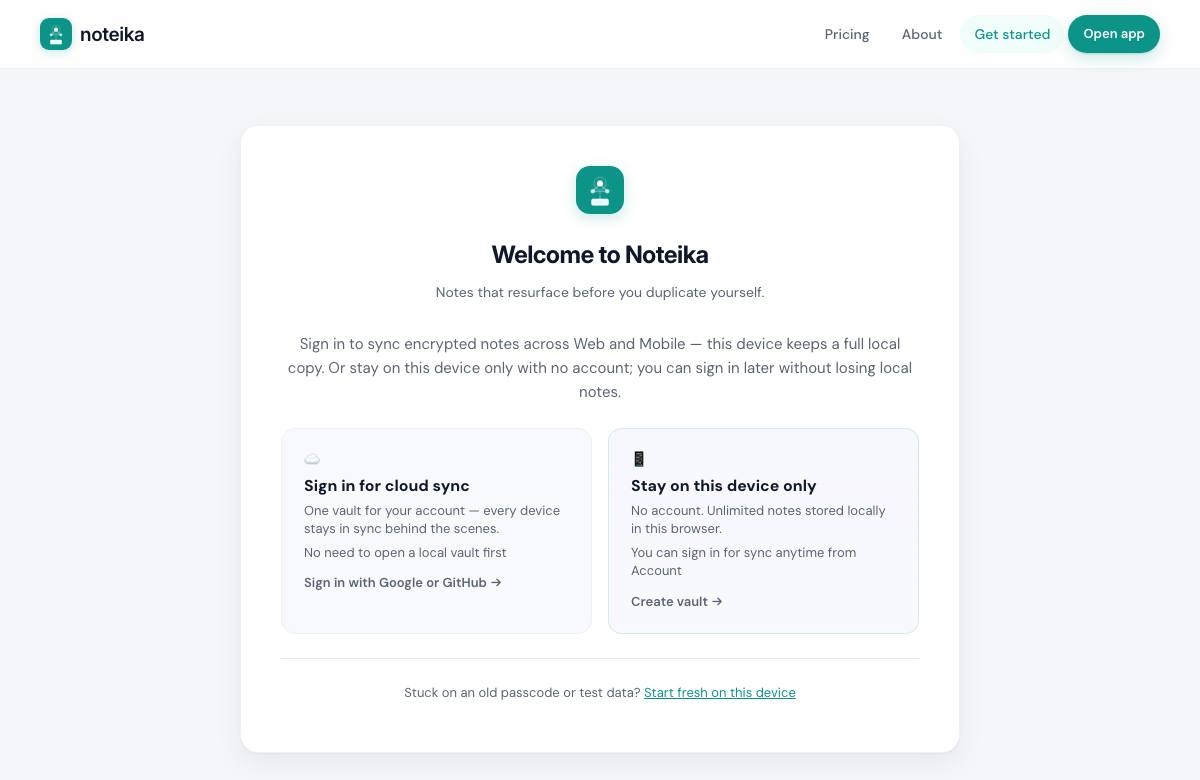
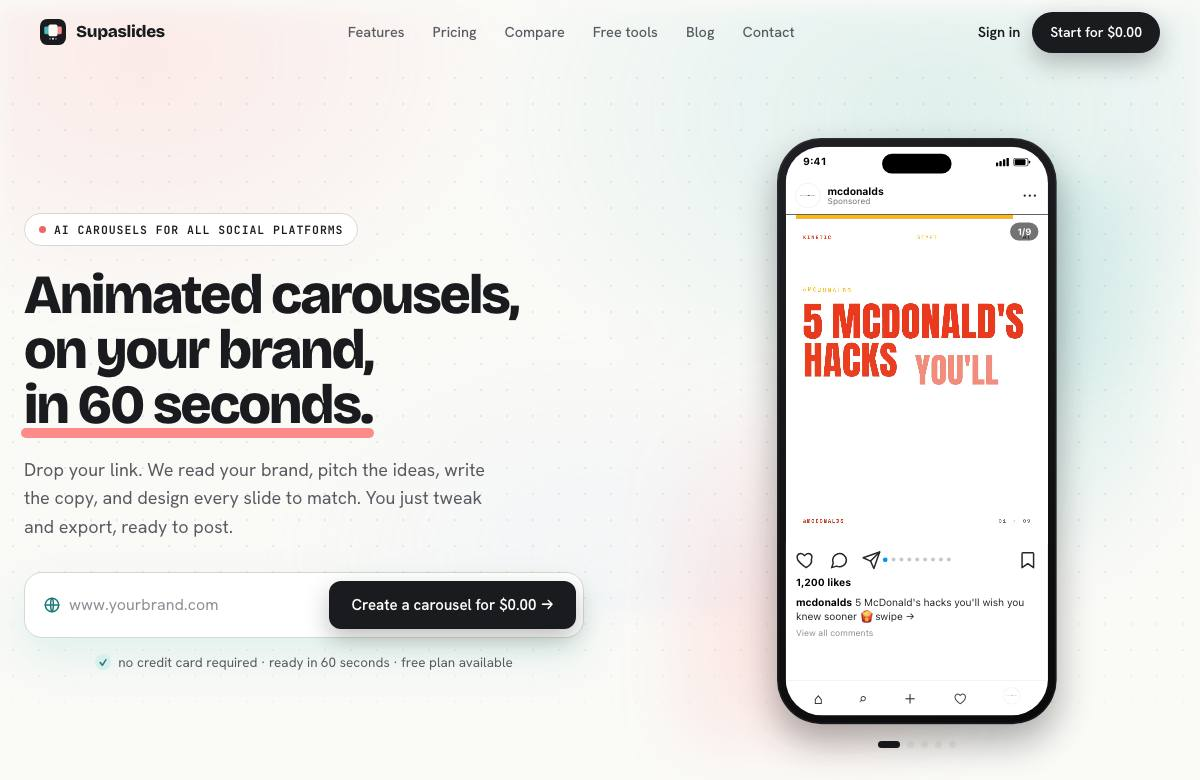
Patterns page: re-source colored-glow and headline-badge examples
- Headline-badge example now comes from supaslides.app (pill above the H1).
- Colored-glow example sourced from www.vioevo.com.
- Drop the one-off custom-image handling; every example is a real capture.

diff --git a/web/patterns.html b/web/patterns.html
@@ -66,10 +66,10 @@
 <div class="topbar"><div class="inner"><b><a href="/">Design Slop Cop</a></b><nav><a href="/">Scan</a><a href="/show">Gallery</a><a class="sel" href="/patterns">Patterns</a></nav></div></div>
 
 <div class="wrap">
-  <h1>Pattern Library</h1>
-  <p class="lede">These are the deterministic patterns Design Slop Cop looks for.</p>
-  <p class="lede muted">Each is checked in a real browser against the page's DOM and computed styles.</p>
-  <p class="submit-top"><a id="submit-top" href="#" target="_blank" rel="noopener">Submit a new pattern →</a></p>
+  <h1>The 14 patterns</h1>
+  <p class="lede">These are the deterministic tells Design Slop Cop looks for — the visual habits of the modern AI-era landing page.</p>
+  <p class="lede muted">Each is checked in a real browser against the page's DOM and computed styles. Great human-designed sites trip these too: the aesthetic is now near-universal, which is rather the point.</p>
+  <p class="submit-top">Spotted a tell we miss? <a id="submit-top" href="#" target="_blank" rel="noopener">Submit a new pattern →</a></p>
 
   <div id="list"></div>
 
@@ -80,7 +80,7 @@
 
 <div class="zoom" id="zoom"><img id="zoomImg" alt=""></div>
 <script>
-  const DATA = {"patterns":[{"id":"slop_fonts","name":"Templated font","desc":"Trendy display fonts like Space Grotesk used as the page default.","pct":11,"exampleUrl":"https://puzzlelair.com/","exampleHost":"puzzlelair.com","img":"/pattern-examples/slop_fonts.jpg"},{"id":"hero_font_mix","name":"Hero font mix","desc":"One headline word set apart with a different font, italic, or color.","pct":22,"exampleUrl":"https://clevercrow.io","exampleHost":"clevercrow.io","img":"/pattern-examples/hero_font_mix.jpg"},{"id":"purple_accent","name":"Vibe purple","desc":"Indigo or violet accent on buttons and links.","pct":8,"exampleUrl":"https://golemui.com","exampleHost":"golemui.com","img":"/pattern-examples/purple_accent.jpg"},{"id":"gradients","name":"Gradients","desc":"Gradient backgrounds, or gradient-filled headline text.","pct":31,"exampleUrl":"https://www.absurdlyoptimized.com/recipes/pancakes/","exampleHost":"absurdlyoptimized.com/recipes/pancakes","img":"/pattern-examples/gradients.jpg"},{"id":"accent_stripe","name":"Accent stripe","desc":"A colored stripe along the top or left edge of cards.","pct":7,"exampleUrl":"https://llm-wiki.net/","exampleHost":"llm-wiki.net","img":"/pattern-examples/accent_stripe.jpg"},{"id":"glassmorphism","name":"Glass","desc":"Frosted, blurred translucent panels.","pct":11,"exampleUrl":"https://www.calendarpipe.com","exampleHost":"calendarpipe.com","img":"/pattern-examples/glassmorphism.jpg"},{"id":"colored_glows","name":"Colored glow","desc":"A colored glow behind buttons or cards.","pct":6,"exampleUrl":"https://vioevo.com","exampleHost":"vioevo.com","img":"/pattern-examples/colored_glows.jpg"},{"id":"sidebar_emoji","name":"Emoji nav","desc":"Navigation links prefixed with emoji.","pct":3,"exampleUrl":"https://brevio.pro","exampleHost":"brevio.pro","img":"/pattern-examples/sidebar_emoji.jpg"},{"id":"center_aligned_hero","name":"Centered + Inter","desc":"A centered hero set in Inter or a default sans-serif.","pct":20,"exampleUrl":"https://startupwiki.tech/","exampleHost":"startupwiki.tech","img":"/pattern-examples/center_aligned_hero.jpg"},{"id":"perma_dark_mode","name":"Perma dark","desc":"Dark background with muted grey body text.","pct":30,"exampleUrl":"https://selforg-npa.github.io/","exampleHost":"selforg-npa.github.io","img":"/pattern-examples/perma_dark_mode.jpg"},{"id":"numbered_steps","name":"1·2·3 steps","desc":"The numbered how-it-works step row.","pct":21,"exampleUrl":"https://margaine.com/hunch","exampleHost":"margaine.com/hunch","img":"/pattern-examples/numbered_steps.jpg"},{"id":"stat_banner_row","name":"Stat banner","desc":"A row of big stats like 10K+ users or 99.9% uptime.","pct":6,"exampleUrl":"https://golemui.com","exampleHost":"golemui.com","img":"/pattern-examples/stat_banner_row.jpg"},{"id":"hero_eyebrow_pill","name":"Headline badge","desc":"A small pill label above the headline.","pct":20,"exampleUrl":"https://noteika.com","exampleHost":"noteika.com","img":"/pattern-examples/hero_eyebrow_pill.jpg"},{"id":"faq_accordion","name":"FAQ","desc":"A collapsible FAQ section near the bottom.","pct":20,"exampleUrl":"https://places.is","exampleHost":"places.is","img":"/pattern-examples/faq_accordion.jpg"}],"submitUrl":"https://github.com/AdrianKrebs/design-slop-cop/issues/new?labels=pattern-suggestion&title=New%20pattern%3A%20&body=**Pattern%20name%3A**%0A%0A**The%20tell%20%E2%80%94%20what%20makes%20it%20read%20as%20AI-generated%3A**%0A%0A**Example%20URL(s)%20where%20it%20shows%20up%3A**%0A%0A**How%20to%20detect%20it%20(DOM%20%2F%20computed-style%20signal)%3A**%0A","repo":"https://github.com/AdrianKrebs/design-slop-cop","generatedAt":"2026-07-02T07:32:25.498Z"};
+  const DATA = {"patterns":[{"id":"slop_fonts","name":"Templated font","desc":"Trendy display fonts like Space Grotesk used as the page default.","pct":11,"exampleUrl":"https://puzzlelair.com/","exampleHost":"puzzlelair.com","img":"/pattern-examples/slop_fonts.jpg"},{"id":"hero_font_mix","name":"Hero font mix","desc":"One headline word set apart with a different font, italic, or color.","pct":22,"exampleUrl":"https://clevercrow.io","exampleHost":"clevercrow.io","img":"/pattern-examples/hero_font_mix.jpg"},{"id":"purple_accent","name":"Vibe purple","desc":"Indigo or violet accent on buttons and links.","pct":8,"exampleUrl":"https://golemui.com","exampleHost":"golemui.com","img":"/pattern-examples/purple_accent.jpg"},{"id":"gradients","name":"Gradients","desc":"Gradient backgrounds, or gradient-filled headline text.","pct":31,"exampleUrl":"https://www.absurdlyoptimized.com/recipes/pancakes/","exampleHost":"absurdlyoptimized.com/recipes/pancakes","img":"/pattern-examples/gradients.jpg"},{"id":"accent_stripe","name":"Accent stripe","desc":"A colored stripe along the top or left edge of cards.","pct":7,"exampleUrl":"https://llm-wiki.net/","exampleHost":"llm-wiki.net","img":"/pattern-examples/accent_stripe.jpg"},{"id":"glassmorphism","name":"Glass","desc":"Frosted, blurred translucent panels.","pct":11,"exampleUrl":"https://www.calendarpipe.com","exampleHost":"calendarpipe.com","img":"/pattern-examples/glassmorphism.jpg"},{"id":"colored_glows","name":"Colored glow","desc":"A colored glow behind buttons or cards.","pct":6,"exampleUrl":"https://www.vioevo.com/","exampleHost":"vioevo.com","img":"/pattern-examples/colored_glows.jpg"},{"id":"sidebar_emoji","name":"Emoji nav","desc":"Navigation links prefixed with emoji.","pct":3,"exampleUrl":"https://brevio.pro","exampleHost":"brevio.pro","img":"/pattern-examples/sidebar_emoji.jpg"},{"id":"center_aligned_hero","name":"Centered + Inter","desc":"A centered hero set in Inter or a default sans-serif.","pct":20,"exampleUrl":"https://startupwiki.tech/","exampleHost":"startupwiki.tech","img":"/pattern-examples/center_aligned_hero.jpg"},{"id":"perma_dark_mode","name":"Perma dark","desc":"Dark background with muted grey body text.","pct":30,"exampleUrl":"https://selforg-npa.github.io/","exampleHost":"selforg-npa.github.io","img":"/pattern-examples/perma_dark_mode.jpg"},{"id":"numbered_steps","name":"1·2·3 steps","desc":"The numbered how-it-works step row.","pct":21,"exampleUrl":"https://margaine.com/hunch","exampleHost":"margaine.com/hunch","img":"/pattern-examples/numbered_steps.jpg"},{"id":"stat_banner_row","name":"Stat banner","desc":"A row of big stats like 10K+ users or 99.9% uptime.","pct":6,"exampleUrl":"https://golemui.com","exampleHost":"golemui.com","img":"/pattern-examples/stat_banner_row.jpg"},{"id":"hero_eyebrow_pill","name":"Headline badge","desc":"A small pill label above the headline.","pct":20,"exampleUrl":"https://supaslides.app/","exampleHost":"supaslides.app","img":"/pattern-examples/hero_eyebrow_pill.jpg"},{"id":"faq_accordion","name":"FAQ","desc":"A collapsible FAQ section near the bottom.","pct":20,"exampleUrl":"https://places.is","exampleHost":"places.is","img":"/pattern-examples/faq_accordion.jpg"}],"submitUrl":"https://github.com/AdrianKrebs/design-slop-cop/issues/new?labels=pattern-suggestion&title=New%20pattern%3A%20&body=**Pattern%20name%3A**%0A%0A**The%20tell%20%E2%80%94%20what%20makes%20it%20read%20as%20AI-generated%3A**%0A%0A**Example%20URL(s)%20where%20it%20shows%20up%3A**%0A%0A**How%20to%20detect%20it%20(DOM%20%2F%20computed-style%20signal)%3A**%0A","repo":"https://github.com/AdrianKrebs/design-slop-cop","generatedAt":"2026-07-02T09:28:04.579Z"};
   const esc = s => String(s == null ? '' : s).replace(/[&<>"']/g, c => ({ '&': '&amp;', '<': '&lt;', '>': '&gt;', '"': '&quot;', "'": '&#39;' }[c]));
 
   document.getElementById('submit-top').href = DATA.submitUrl;